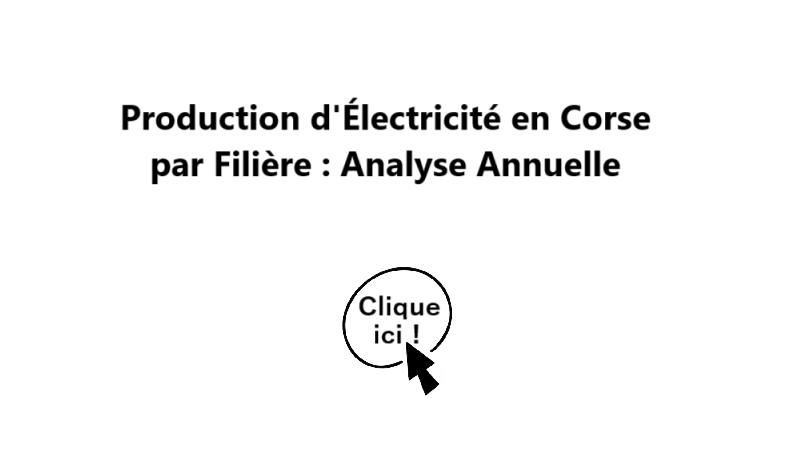
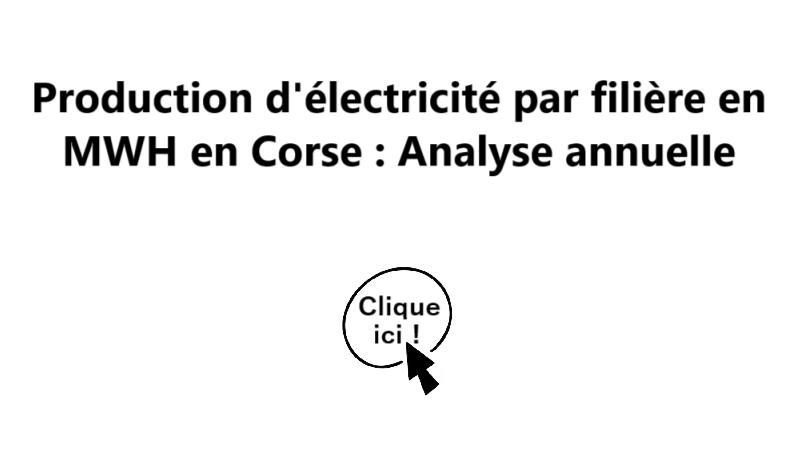
Modif image + readme

Changed region(s): [[0.0312, 0.1483, 0.9688, 0.3856]]

diff --git a/README.md b/README.md
@@ -1,30 +1,28 @@
-#### INFO
-Dependances :
-- Vite pour servir le projet
-npm i vite -D
-- ThreeJS
-npm i three 
 
+# Challenge Data Viz 2024
 
+## Auteur
 
-Commande de demarrage :
-npm run dev
+- Clément L'HARIDON
 
-OU pour un serveur Http:
-npx http-server
-    ++cache 1h
+## Demo
 
+Une fois dans la simulation les touches pour se déplacer sont les flèches du clavier ou Z pour avancer, Q pour tourner à gauche, D pour tourner à droite et S pour reculer et les mouvements de la souris pour déplacer la camera dans l'espace.
+La touche échap permet de sortir de la simulation 3D.
 
-Une fois le modèle gltf creer dans RStudio avec le .bin associé, on doit convertir le gltf en glb : 
-npx gltf-pipeline -i scene.gltf -o scene.glb
+[Démo principale ici](https://clementlha.github.io)
 
+#### Liens annexes : 
 
-Nom
-Corsica Horizons : Le Voyage des Éléments
-Bienvenue dans un parcours exploratoire en 3D à travers les éléments naturels, l'énergie et les risques en Corse.
+ - [Carte interactive des lignes électriques en Corse](https://clementlha.github.io/src/posteSource.html)
+ - [Histogramme de la production d'électricité par filière en Corse](https://clementlha.github.io/src/i4.html)
 
-INFO :  creer un gif https://ezgif.com/maker => convertir gif en video
-Ozone
-L'ozone (O₃) est un composé gazeux secondaire formé à partir de dioxyde d'azote et de composés organiques volatils.
+Utilisation des librairies :
+ 
+ - *Threejs* pour créer et afficher des graphiques 3D dans un navigateur web en utilisant WebGL.
+ - *Blender* pour modeliser des graphiques 3D.
+ - *D3js* pour creer des graphiques 3D.
+ - *Leaflet* qui permet de réaliser des cartes interactives
 
-TITRE GIFO3 : Carte de prévision du maximum journalier de la pollution à l'ozone(O3) en µg/m³ pour la période 03/09/2024 au 11/09/2024.
+ Utilisation du logiciel *RStudio* avec les dépendances ggplot2 et rayshader. 
+

diff --git a/READMEDev.md b/READMEDev.md
@@ -1,0 +1,30 @@
+#### INFO
+Dependances :
+- Vite pour servir le projet
+npm i vite -D
+- ThreeJS
+npm i three 
+
+
+
+Commande de demarrage :
+npm run dev
+
+OU pour un serveur Http:
+npx http-server
+    ++cache 1h
+
+
+Une fois le modèle gltf creer dans RStudio avec le .bin associé, on doit convertir le gltf en glb : 
+npx gltf-pipeline -i scene.gltf -o scene.glb
+
+
+Nom
+Corsica Horizons : Le Voyage des Éléments
+Bienvenue dans un parcours exploratoire en 3D à travers les éléments naturels, l'énergie et les risques en Corse.
+
+INFO :  creer un gif https://ezgif.com/maker => convertir gif en video
+Ozone
+L'ozone (O₃) est un composé gazeux secondaire formé à partir de dioxyde d'azote et de composés organiques volatils.
+
+TITRE GIFO3 : Carte de prévision du maximum journalier de la pollution à l'ozone(O3) en µg/m³ pour la période 03/09/2024 au 11/09/2024.
